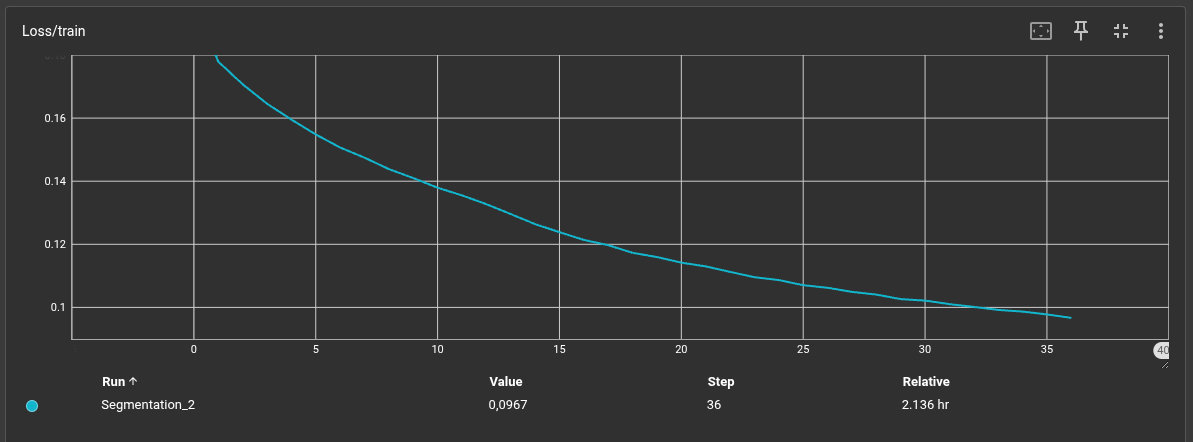
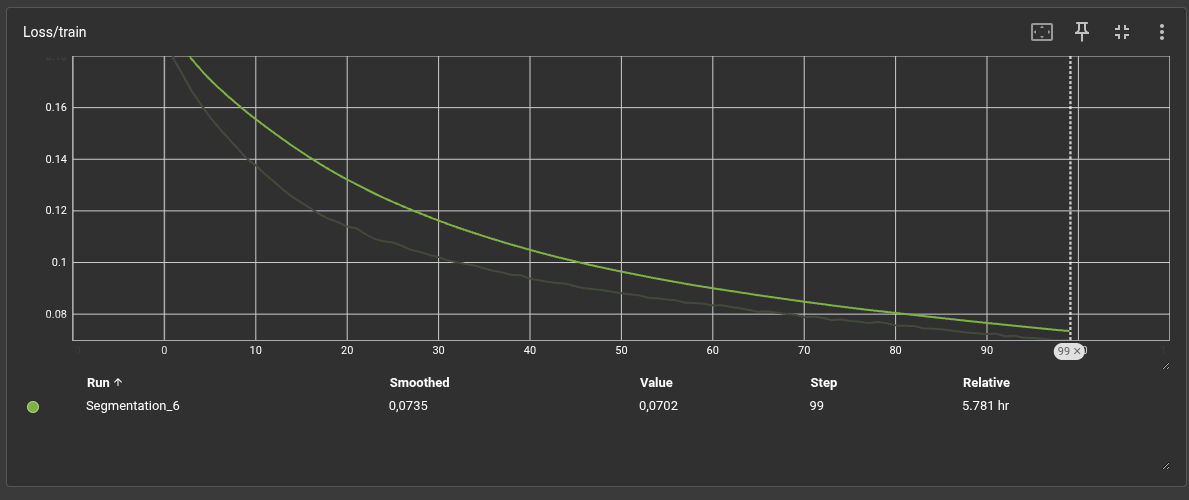
readme edit

diff --git a/main.py b/main.py
@@ -1,11 +1,13 @@
 import csv
 
+import random
 import cv2
 import matplotlib.pyplot as plt
 import numpy as np
 import segmentation_models_pytorch as smp
 import torch
 from segmentation_models_pytorch import Unet
+from torch import nn
 from torch.utils.data import DataLoader
 
 from dataset import SegmentationDataset
@@ -41,7 +43,7 @@ def main():
     train_loader = DataLoader(train_dataset, batch_size=64, shuffle=True)
     val_loader = DataLoader(val_dataset, batch_size=64, shuffle=False)
 
-    train(model, train_loader, val_loader, "weights/weight_3", 50)
+    train(model, train_loader, val_loader, "weights/weight_6", 100)
 
 
 def test():
@@ -50,18 +52,28 @@ def test():
     ).cuda()
 
     model.load_state_dict(
-        torch.load("/home/gleb/learning/Segmentation/weights/weight_3_34_epochs.pth")
+        torch.load("/home/gleb/learning/Segmentation/weights/weight_6_87_epochs.pth")
     )
 
     test_files = get_files("/home/gleb/learning/Segmentation/segmentation_test_set.csv")
     val_tp, val_fp, val_fn, val_tn = 0, 0, 0, 0
+    road_tp = 0
+    road_fp = 0
+    road_fn = 0
+
+    bg_tp = 0
+    bg_fp = 0
+    bg_fn = 0
+    random.shuffle(test_files)
     for file in test_files:
         print(file)
         result, full_mask = inference(
             model,
             "/home/gleb/learning/Segmentation/dataset/src/pictures_png/" + file[0],
             "/home/gleb/learning/Segmentation/segmentations/" + file[0],
-            write=True,
+            write=False,
+            label_path="/home/gleb/learning/Segmentation/dataset/src/labels_png/" + file[0],
+            draw_orig=True
         )
         label_read = cv2.imread(
             "/home/gleb/learning/Segmentation/dataset/src/labels_png/" + file[0]
@@ -69,7 +81,7 @@ def test():
         label_read = cv2.cvtColor(label_read, cv2.COLOR_BGR2RGB)
         binary_mask = np.all(label_read == [255, 255, 255], axis=-1)
         label = torch.from_numpy(binary_mask).long().cuda()
-        pred = torch.from_numpy(full_mask == 255).float().cuda()
+        pred = torch.from_numpy(full_mask == 255).cuda()
 
         # просмотр масок
         # plt.subplot(1, 2, 1)
@@ -79,41 +91,98 @@ def test():
         # plt.show(block=False)
         # plt.waitforbuttonpress()
         # plt.close()
+        # pred = pred.sum(dim = 0)
+        # label = label.sum(dim=0)
+
+        pred_road = pred.float()
+        road_tp += (pred_road * label).sum().item()
+        road_fp += (pred_road * (1 - label)).sum().item()
+        road_fn += ((1 - pred_road) * label).sum().item()
+
+        pred_bg = torch.logical_not(pred).float()
+        bg_tp += (pred_bg * (1 - label)).sum().item()
+        bg_fp += (pred_bg * label).sum().item()
+        bg_fn += ((1 - pred_bg) * (1 - label)).sum().item()
 
         batch_tp, batch_fp, batch_fn, batch_tn = smp.metrics.get_stats(
             pred, label, mode="binary", threshold=0.5
         )
-
-        val_tp += batch_tp.sum(dim=0)
-        val_fp += batch_fp.sum(dim=0)
-        val_fn += batch_fn.sum(dim=0)
-        val_tn += batch_tn.sum(dim=0)
+        # 1500x1500
+        val_tp += batch_tp
+        val_fp += batch_fp
+        val_fn += batch_fn
+        val_tn += batch_tn
 
         # просмотр фото с наложенными масками
-        plt.figure(figsize=(12, 6))
-        plt.imshow(result)
-        plt.title("Segmentation")
-        plt.show(block=False)
-        plt.waitforbuttonpress()
-        plt.close()
+        # plt.figure(figsize=(12, 6))
+        # plt.imshow(result)
+        # plt.title("Segmentation")
+        # plt.show(block=False)
+        # plt.waitforbuttonpress()
+        # plt.close()
 
     val_tp = val_tp.unsqueeze(0)
     val_fp = val_fp.unsqueeze(0)
-    val_tn = val_tn.unsqueeze(0)
     val_fn = val_fn.unsqueeze(0)
+    val_tn = val_tn.unsqueeze(0)
     val_iou = smp.metrics.iou_score(val_tp, val_fp, val_fn, val_tn, reduction="micro")
     val_f1 = smp.metrics.f1_score(val_tp, val_fp, val_fn, val_tn, reduction="micro")
-    val_accuracy = smp.metrics.accuracy(
-        val_tp, val_fp, val_fn, val_tn, reduction="micro"
-    )
-    val_recall = smp.metrics.recall(val_tp, val_fp, val_fn, val_tn, reduction="micro")
 
-    print(f"IoU: {val_iou}")
+    road_iou = road_tp / (road_tp + road_fp + road_fn + 1e-6)
+
+    bg_iou = bg_tp / (bg_tp + bg_fp + bg_fn + 1e-6)
+
+    macro_iou = (road_iou + bg_iou) / 2
+    print(f"road_iou:{road_iou}")
+    print(f"bg_iou:{bg_iou}")
+    print(f"macro IoU: {macro_iou}")
+    print(f"micro IoU: {val_iou}")
     print(f"f1-score: {val_f1}")
-    print(f"Accuracy: {val_accuracy}")
-    print(f"Recall: {val_recall}")
+    print(
+        f"true micro IoU {(road_tp + bg_tp) / (road_tp + road_fp + road_fn + bg_tp + bg_fp + bg_fn + 1e-6)}"
+    )
+
+
+def save():
+    model = smp.Unet(
+        encoder_name="resnet34", encoder_weights="imagenet", in_channels=3, classes=1
+    ).cuda()
+
+    model.load_state_dict(
+        torch.load("/home/gleb/learning/Segmentation/weights/weight_3_34_epochs.pth")
+    )
+
+    model.train()
+
+    for name, param in model.named_parameters():
+        print(f"{name}: {param.requires_grad}")
+
+    exit()
+
+    model.eval()
+
+    input = torch.ones((1, 3, 224, 224)).cuda()
+
+    onnx_filename = "unet_resnet34_2.onnx"
+
+    torch.onnx.export(
+        model,
+        input,
+        onnx_filename,
+        export_params=True,
+        opset_version=11,
+        do_constant_folding=True,
+        input_names=["input"],
+        output_names=["output"],
+        dynamic_axes={
+            "input": {0: "batch_size", 2: "height", 3: "width"},
+            "output": {0: "batch_size", 2: "height", 3: "width"},
+        },
+    )
+
+    print(model)
 
 
 test()
-
+# save()
 # main()

diff --git a/train.py b/train.py
@@ -6,7 +6,7 @@ from torch.utils.tensorboard import SummaryWriter
 
 
 def train(model, train_loader, val_loader, path_to_save_model, epochs):
-    writer = SummaryWriter("runs/Segmentation_2")
+    writer = SummaryWriter("runs/Segmentation_6")
     criterion = nn.BCEWithLogitsLoss()
     optimizer = optim.Adam(model.parameters(), lr=0.001)
 
@@ -21,9 +21,6 @@ def train(model, train_loader, val_loader, path_to_save_model, epochs):
             optimizer.zero_grad()
             output = model(image)
             loss = criterion(output, label)
-            writer.add_scalar(
-                "Loss/train each batch", loss.item(), num_of_train_batches
-            )
             total_train_loss += loss.item()
             num_of_train_batches += 1
             loss.backward()
@@ -35,7 +32,14 @@ def train(model, train_loader, val_loader, path_to_save_model, epochs):
 
         total_validation_loss = 0
         num_of_validation_batches = 0
-        val_tp, val_fp, val_fn, val_tn = 0, 0, 0, 0
+
+        road_tp = 0
+        road_fp = 0
+        road_fn = 0
+
+        bg_tp = 0
+        bg_fp = 0
+        bg_fn = 0
 
         for image, label in val_loader:
             with torch.no_grad():
@@ -43,46 +47,40 @@ def train(model, train_loader, val_loader, path_to_save_model, epochs):
                 label = label.cuda().unsqueeze(1)
                 output = model(image)
                 loss = criterion(output, label)
-                preds = torch.sigmoid(output)
-                batch_tp, batch_fp, batch_fn, batch_tn = smp.metrics.get_stats(
-                    (preds > 0.5).float(), label.long(), mode="binary", threshold=0.5
-                )
-                val_tp += batch_tp.sum(dim=0)
-                val_fp += batch_fp.sum(dim=0)
-                val_fn += batch_fn.sum(dim=0)
-                val_tn += batch_tn.sum(dim=0)
-                writer.add_scalar(
-                    "Loss/validation each batch", loss.item(), num_of_validation_batches
-                )
+                pred = torch.sigmoid(output) > 0.5
+
+                pred_road = pred.float()
+                road_tp += (pred_road * label).sum().item()
+                road_fp += (pred_road * (1 - label)).sum().item()
+                road_fn += ((1 - pred_road) * label).sum().item()
+
+                pred_bg = torch.logical_not(pred).float()
+                bg_tp += (pred_bg * (1 - label)).sum().item()
+                bg_fp += (pred_bg * label).sum().item()
+                bg_fn += ((1 - pred_bg) * (1 - label)).sum().item()
+
                 total_validation_loss += loss.item()
                 num_of_validation_batches += 1
 
-        val_tp = val_tp.unsqueeze(0)
-        val_fp = val_fp.unsqueeze(0)
-        val_tn = val_tn.unsqueeze(0)
-        val_fn = val_fn.unsqueeze(0)
-        val_iou = smp.metrics.iou_score(
-            val_tp, val_fp, val_fn, val_tn, reduction="micro"
+        road_iou = road_tp / (road_tp + road_fp + road_fn + 1e-9)
+        bg_iou = bg_tp / (bg_tp + bg_fp + bg_fn + 1e-9)
+        macro_iou = (road_iou + bg_iou) / 2
+        micro_iou = (road_tp + bg_tp) / (
+            road_tp + road_fp + road_fn + bg_tp + bg_fp + bg_fn + 1e-6
         )
-        val_f1 = smp.metrics.f1_score(val_tp, val_fp, val_fn, val_tn, reduction="micro")
-        val_accuracy = smp.metrics.accuracy(
-            val_tp, val_fp, val_fn, val_tn, reduction="micro"
-        )
-        val_recall = smp.metrics.recall(
-            val_tp, val_fp, val_fn, val_tn, reduction="micro"
-        )
-
-        writer.add_scalar("Metrics_val/IoU", val_iou, epoch)
-        writer.add_scalar("Metrics_val/F1", val_f1, epoch)
-        writer.add_scalar("Metrics_val/Accuracy", val_accuracy, epoch)
-        writer.add_scalar("Metrics_val/Recall", val_recall, epoch)
-
         writer.add_scalar(
             "Loss/validation", total_validation_loss / num_of_validation_batches, epoch
         )
 
-        if (epoch + 1) % 5 == 0:
-            torch.save(model.state_dict(), path_to_save_model + f"_{epoch}_epochs.pth")
+        writer.add_scalar("IoU/Road", road_iou, epoch)
+
+        writer.add_scalar("IoU/Background", bg_iou, epoch)
+
+        writer.add_scalar("IoU/Macro", macro_iou, epoch)
+
+        writer.add_scalar("IoU/Micro", micro_iou, epoch)
+
+        torch.save(model.state_dict(), path_to_save_model + f"_{epoch}_epochs.pth")
 
     writer.close()
-    torch.save(model.state_dict(), path_to_save_model + "_last.pth")
+    # torch.save(model.state_dict(), path_to_save_model + "_last.pth")

diff --git a/inference.py b/inference.py
@@ -4,7 +4,7 @@ import torch
 from torchvision import transforms
 
 
-def inference(model, picture_path, save_path, write=False):
+def inference(model, picture_path, save_path, label_path = "", write=False, draw_orig=False):
     img = cv2.imread(picture_path)
     img_rgb = cv2.cvtColor(img, cv2.COLOR_BGR2RGB)
     transform = transforms.Compose(
@@ -18,7 +18,7 @@ def inference(model, picture_path, save_path, write=False):
     crop_tensor = transform(img_rgb).unsqueeze(0).cuda()
     with torch.no_grad():
         crop_output = model(crop_tensor)
-        pred_mask = torch.sigmoid(crop_output).squeeze().cpu().numpy()
+        pred_mask = crop_output.squeeze().cpu().numpy()
         pred_mask = (pred_mask > 0.5).astype(np.uint8) * 255
 
     yellow_mask = np.zeros_like(img)
@@ -26,6 +26,14 @@ def inference(model, picture_path, save_path, write=False):
     img = cv2.imread(picture_path)
     img = cv2.cvtColor(img, cv2.COLOR_BGR2RGB)
     result = cv2.addWeighted(img, 0.7, yellow_mask, 0.5, 0)
+
+    if draw_orig and label_path != "":
+        white_mask = np.zeros_like(img)
+        label = cv2.imread(label_path, cv2.IMREAD_GRAYSCALE)
+        border = np.zeros((img.shape[0], 10, 3), dtype=np.uint8)
+        white_mask[label == 255] = [255, 255, 255]
+        img = cv2.addWeighted(img, 0.7, white_mask, 0.5, 0)
+        result = np.hstack([result,border, img])
 
     if write:
         cv2.imwrite(save_path, result)

diff --git a/check_data.py b/check_data.py
@@ -83,12 +83,12 @@ def tiff_to_png():
     i = 0
     for file in os.listdir(pictures_dir):
         image = cv2.imread(pictures_dir + file)
-        image = cv2.resize(image, (400, 400))
+        image = cv2.resize(image, (int(400 / 1500 * image.shape[1]), 400))
         cv2.imwrite(output_dir + f"{i}.png", image)
         i += 1
         if i == 4:
             break
-
+tiff_to_png()
 
 def delete_old_masks():
     path = "/home/gleb/learning/Segmentation/exported_masks/done_masks"

diff --git a/README.md b/README.md
@@ -54,14 +54,17 @@ Loss / validation    |
 :-------------------------:|
 ![](https://github.com/Pozovi23/Segmentation/blob/master/readme_pictures/loss_validation.png)  |  
 
+IoU Road    |
+:-------------------------:|
+![](https://github.com/Pozovi23/Segmentation/blob/master/readme_pictures/iou_road.png)  |  
+
 ### Результаты на тестовом датасете
 
 Тесты проводились не на кропах 224х224, а на изначальных фото 1500х1500.
 
-|    |           |
-|------------|--------------------|
-| **IoU**    | 0.534  |
-| **F1-score**| 0.696  |
+|              |           |
+|--------------|--------------------|
+| **IoU road** | 0.516  |
 
 ![](https://github.com/Pozovi23/Segmentation/blob/master/segmentations/0.png) ![](https://github.com/Pozovi23/Segmentation/blob/master/segmentations/1.png)
 ![](https://github.com/Pozovi23/Segmentation/blob/master/segmentations/2.png) ![](https://github.com/Pozovi23/Segmentation/blob/master/segmentations/3.png)
